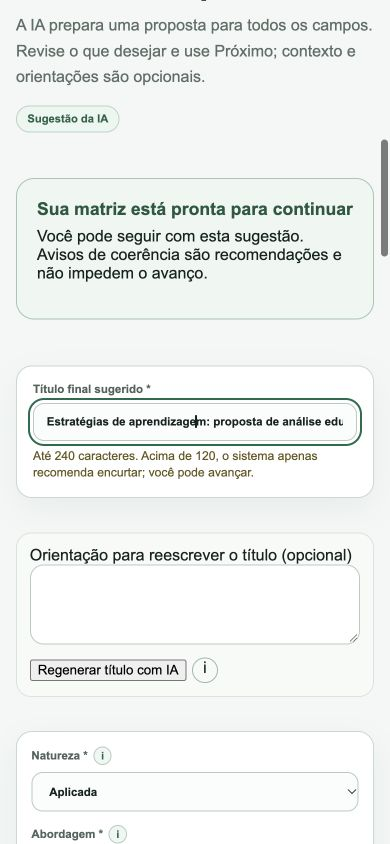
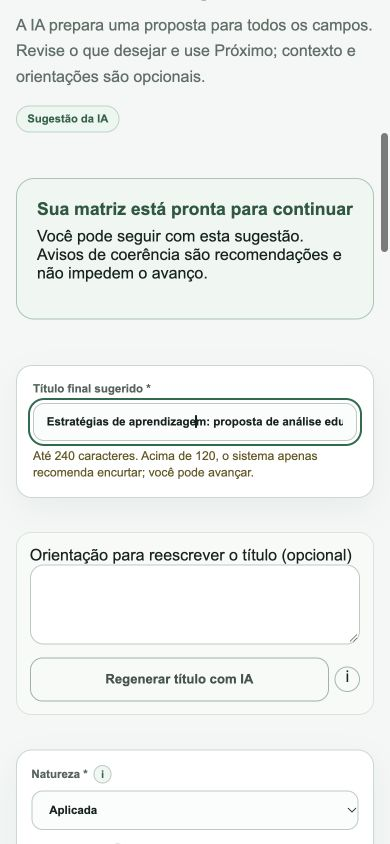
docs: close C117 with production verification and release evidence

diff --git a/.specs/changes/117-guided-methodology/cpd-2026-10-08.md b/.specs/changes/117-guided-methodology/cpd-2026-10-08.md
@@ -8,7 +8,7 @@ Release sensível por alterar rotas de conteúdo/IA e validação do JSON persis
 
 ## Gate local
 
-- `npm run check`: lint, tipos, grants estáticos, **217 testes** (183 + 13 DOI + 21 IA) e exportações aprovados. Build Turbopack local bloqueado pelo ambiente (`Operation not permitted` ao criar processo/porta), inclusive com execução escalada. Alternativa suportada `npm run build -- --webpack` **PASS** no mesmo candidato. O build padrão Turbopack deve passar na Vercel antes de promover.
+- `npm run check`: lint, tipos, grants estáticos, **217 testes** (183 + 13 DOI + 21 IA) e exportações aprovados. Build Turbopack local bloqueado pelo ambiente (`Operation not permitted` ao criar processo/porta), inclusive com execução escalada. Alternativa suportada `npm run build -- --webpack` **PASS** no mesmo candidato. O build padrão Turbopack passou na Vercel antes da promoção.
 - `node scripts/verify-guided-methodology-routes.mjs`: **14 cenários PASS**, incluindo rascunho incompleto, erros por campo, completar e preservar conteúdo, idempotência, avanço, regeneração do título vazio, erro de IA, acesso negado, conflito antes/depois da geração e gates de orientação.
 - `npm run test:cards`: **13 cenários PASS**. Verificador C111 de rotas reais **PASS**. Fronteiras de autenticação, persistência e provedores sintéticas; nenhuma API de IA paga acionada.
 - PostgreSQL 17 local descartável: verificador do histórico C111 **PASS**, 2.015 versões; isolamento e revisões preservados. Nenhuma mutation remota de banco.
@@ -27,4 +27,11 @@ Rollback de aplicação: promover `dpl_92BFyktVi9wFH6WhA9upL9XqaSjQ` (`v08102026
 
 ## Publicação
 
-Pendente de commit/artefato exato, build padrão Vercel, smoke, promoção e evidência canônica. Atualização de configuração limitada a `NEXT_PUBLIC_APP_VERSION` (Config/Production).
[1 lines of base64/hex data omitted]
+- Atualizado apenas `NEXT_PUBLIC_APP_VERSION`, Config/Production, para `v08102026.4`.
+- Deployment `dpl_4nAGry5QVeAFA2YyaEUfU3KACSSB`, `https://mapadapesquisa-9bml8scbm-msr-brs-projects.vercel.app`, criado às 17:21:03 de São Paulo. Build padrão Next/Turbopack aprovado (46 s informados por inspect), estado READY. Health e HTML verificados antes da promoção.
+- Mesmo artefato promovido sem rebuild. `inspect` confirmou o domínio canônico no mesmo ID; health `ok`, versão `v08102026.4` às 20:25 UTC. Requisições anônimas válidas às rotas definition, methodology e regenerate-card retornaram **401**. Primeiro corpo de diagnóstico incompleto retornou 400 antes da autorização, sem efeitos; teste repetido com schema correto.
+- Título centralizado em produção: centro 640/1280 px e 195/390 px, sem overflow horizontal. Console da aba sem erros. Consulta de runtime de 15 minutos/limite 100 retornou zero registros de erro; não comprova ausência em fluxos não exercitados.
+- Fluxo autenticado e geração pagos não repetidos em produção; validação funcional integral foi local com componentes/rotas reais e fronteiras sintéticas. A capacidade configurada indicada pelo health não é prova de uma nova chamada Gemini/GPT.
+
+Evidências: [smoke](evidence/production-smoke.json), [layout](evidence/production-layout.json), [captura pública](evidence/production-heading.jpg), [checks locais](evidence/local-checks.json), [manifesto](release-2026-10-08.json). Tag `v08102026.4` aponta ao commit funcional; evidências e índices em commit documental posterior, sem mudança do código publicado.

diff --git a/.specs/roadmap.md b/.specs/roadmap.md
@@ -112,6 +112,7 @@ Cada fase entrega uma base verificável para a seguinte. Integrações externas 
 | 114 | Entrada pública e regeneração por quadro | Concluída / publicada v08102026.1 | Landing → `/mapa`, regeneração isolada, salvamento ao voltar e literatura aditiva. 211 testes, 13 cenários de rotas, regressão C111, UI local e build padrão aprovados. Produção: versão/health, links/modos/SEO e bloqueios 401/403 confirmados; sem novo smoke pago. [CPD](changes/114-landing-card-regeneration/cpd-2026-10-08.md). |
 | 115 | Hierarquia visual da entrada do Mapa | Concluída / publicada v08102026.2 | Área externa, Avançado e Rápido com tons distintos; molduras redundantes removidas; Avançado fechado por padrão. 211 testes/build, contraste e layout 320–1280 px aprovados; health, modos, cores e logs confirmados em produção. [CPD](changes/115-mapa-entry-visual-hierarchy/cpd-2026-10-08.md). |
 | 116 | Abrir e fechar os modos do Mapa | Concluída / publicada v08102026.3 | + abre e − fecha sem abrir o outro modo; textos e seleção preservados, envio bloqueado com ambos fechados. 211 testes/build, 11 estados locais e 7 em produção aprovados; health, alias e logs conferidos. [CPD](changes/116-mapa-mode-collapse/cpd-2026-10-08.md). |
+| 117 | Objetivos e metodologia prontos para revisão | Concluída / publicada v08102026.4 | Título centralizado, sugestão inicial automática e completar lacunas, rascunhos parciais e erros por campo. 217 testes, rotas reais simuladas, UI e build aprovados; smoke/alias/layout canônicos. [CPD](changes/117-guided-methodology/cpd-2026-10-08.md). |
 
 ## Marcos
 

diff --git a/.specs/project-state.md b/.specs/project-state.md
@@ -8,6 +8,8 @@
 
 ## Estado atual
 
+- C117 concluída e publicada em **`v08102026.4`**, release `96ef0b0`: título centralizado; metodologia inicial preenchida automaticamente e ação para completar lacunas em objetivos/matriz preservando texto. Rascunhos incompletos salváveis, indicações por campo e recomendações opcionais; orientação acadêmica preservada. 217 testes, 14 cenários de rotas, regressão C111/C114, PostgreSQL local, UI móvel/desktop e build Vercel aprovados. Produção: health/alias, layout e negações 401; nenhuma nova chamada paga de IA. [CPD](changes/117-guided-methodology/cpd-2026-10-08.md).
+
 - C116 concluída e publicada em **`v08102026.3`**, release `33c2309`: + abre e − recolhe cada modo público, permitindo ambos fechados e preservando texto/seleção. Avançado segue fechado por padrão. 211 testes/build, 11 estados locais (desktop, celular e teclado), 7 estados no domínio canônico, health e logs conferidos. [CPD](changes/116-mapa-mode-collapse/cpd-2026-10-08.md).
 
 - C115 concluída e publicada em **`v08102026.2`**, release `08e4798`: entrada com três superfícies distintas, menos caixas aninhadas, Rápido aberto/Avançado fechado por padrão. Links explícitos e rascunhos preservados. 211 testes/build aprovados; versão, health, modos, cores, desktop/celular e logs conferidos em produção. [CPD](changes/115-mapa-entry-visual-hierarchy/cpd-2026-10-08.md).

diff --git a/README.md b/README.md
@@ -10,6 +10,8 @@ As Changes 001 a 006 estão concluídas. O MVP possui autenticação, projetos e
 
 Produção: <https://mapadapesquisa.com.br>
 
+Atualização C117 (`v08102026.4`): objetivos e metodologia com preenchimento de lacunas pela IA, rascunhos parciais preservados e orientação clara para avançar. [Validação e limites da release](.specs/changes/117-guided-methodology/cpd-2026-10-08.md).
+
 ## Requisitos
 
 - Node.js 22.13 ou superior.
